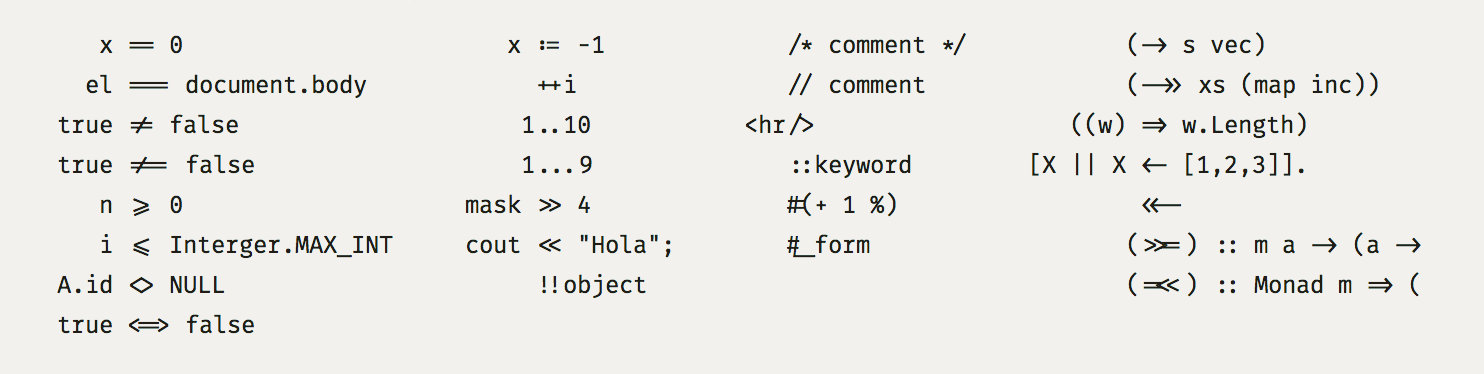
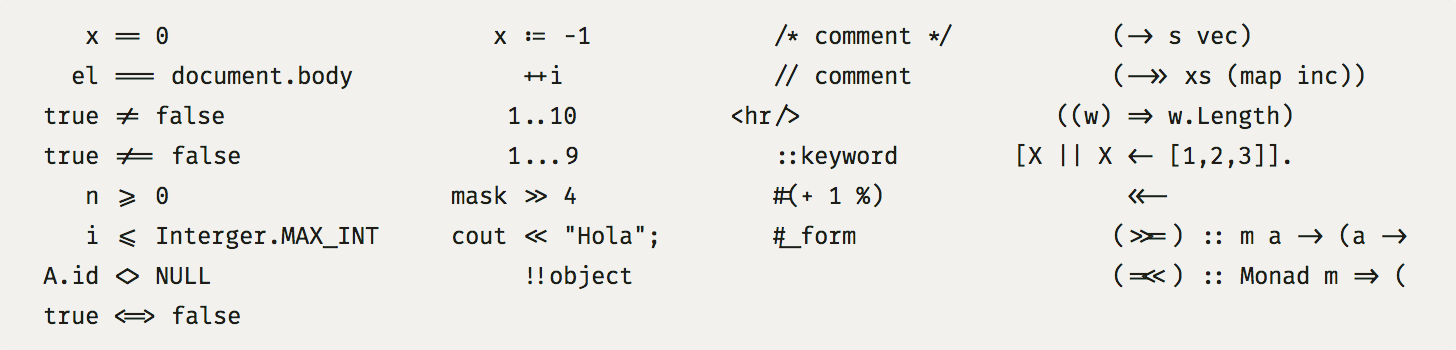
Tuned image size

diff --git a/README.md b/README.md
@@ -10,11 +10,11 @@ Fira Code is a Fira Mono font extended with a set of ligatures for common progra
 
 ### Fira Code (with ligatures):
 
-<img src="./firacode.png" style="width: 742px; height: 187px;"/>
+<img src="./firacode.png" style="width: 728px; height: 175px;"/>
 
 Compare to Fira Mono (without ligatures):
 
-<img src="./firamono.png" style="width: 742px; height: 187px;"/>
+<img src="./firamono.png" style="width: 728px; height: 175px;"/>
 
 #### [Download Fira Code v0.1](https://github.com/tonsky/FiraCode/releases/download/0.1/FiraCode-Regular.otf)
 
